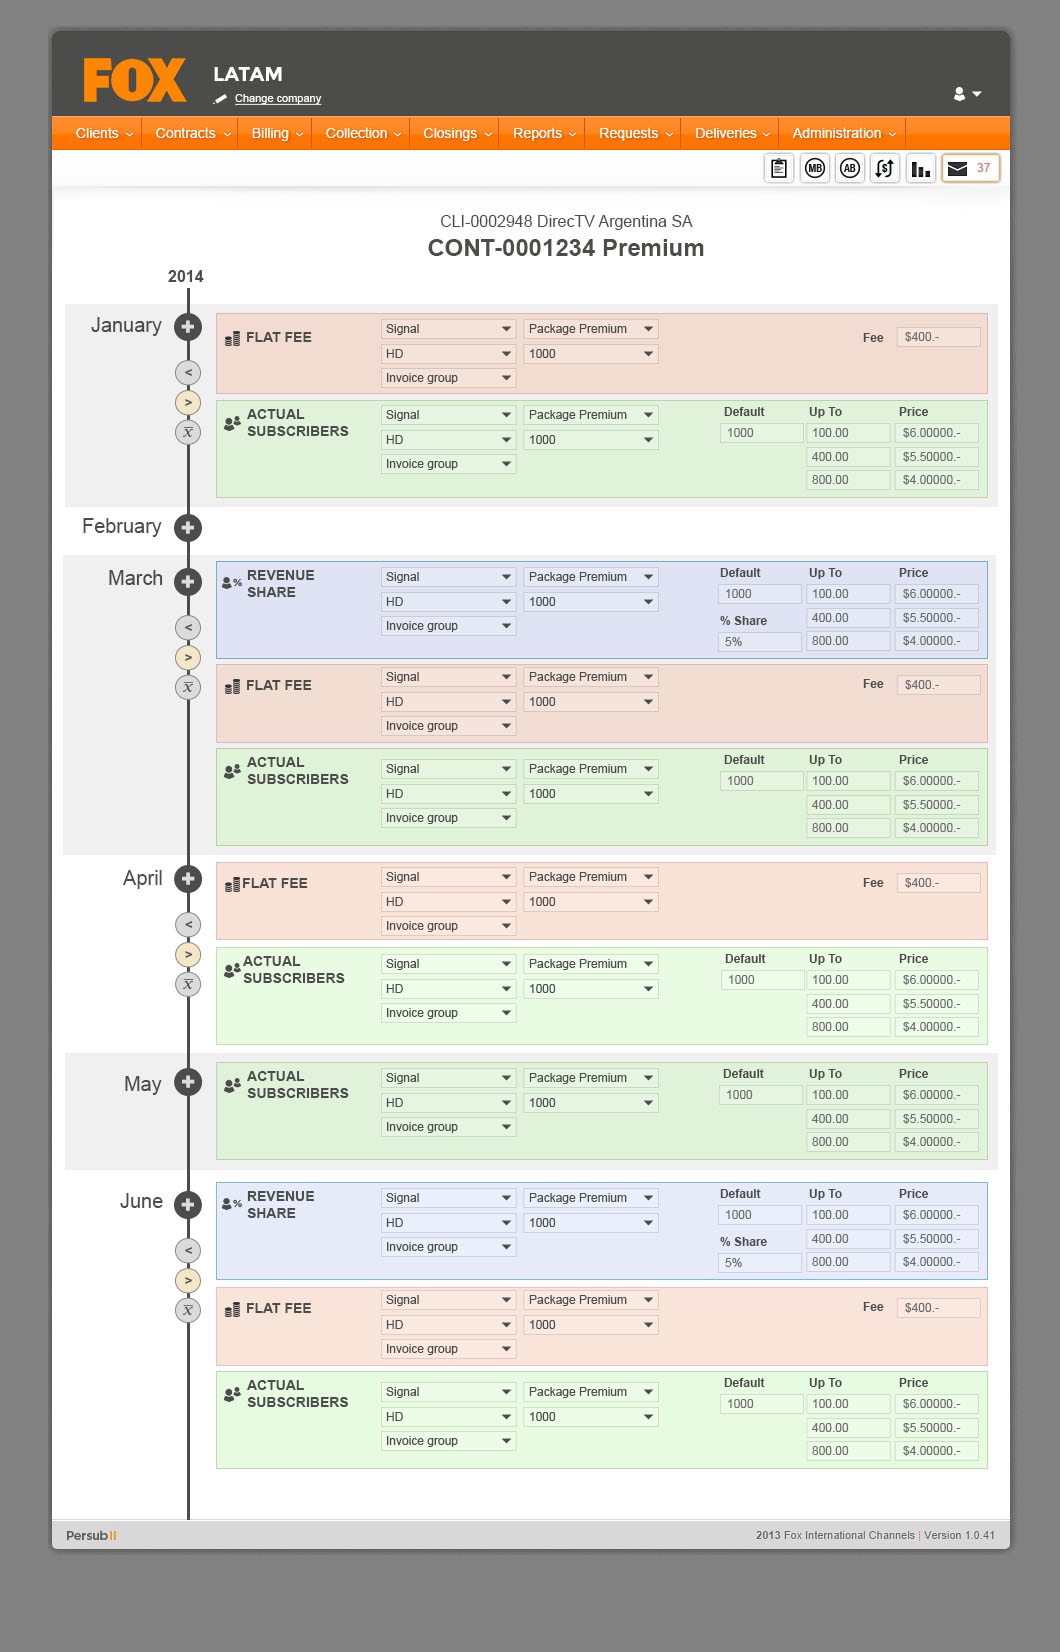
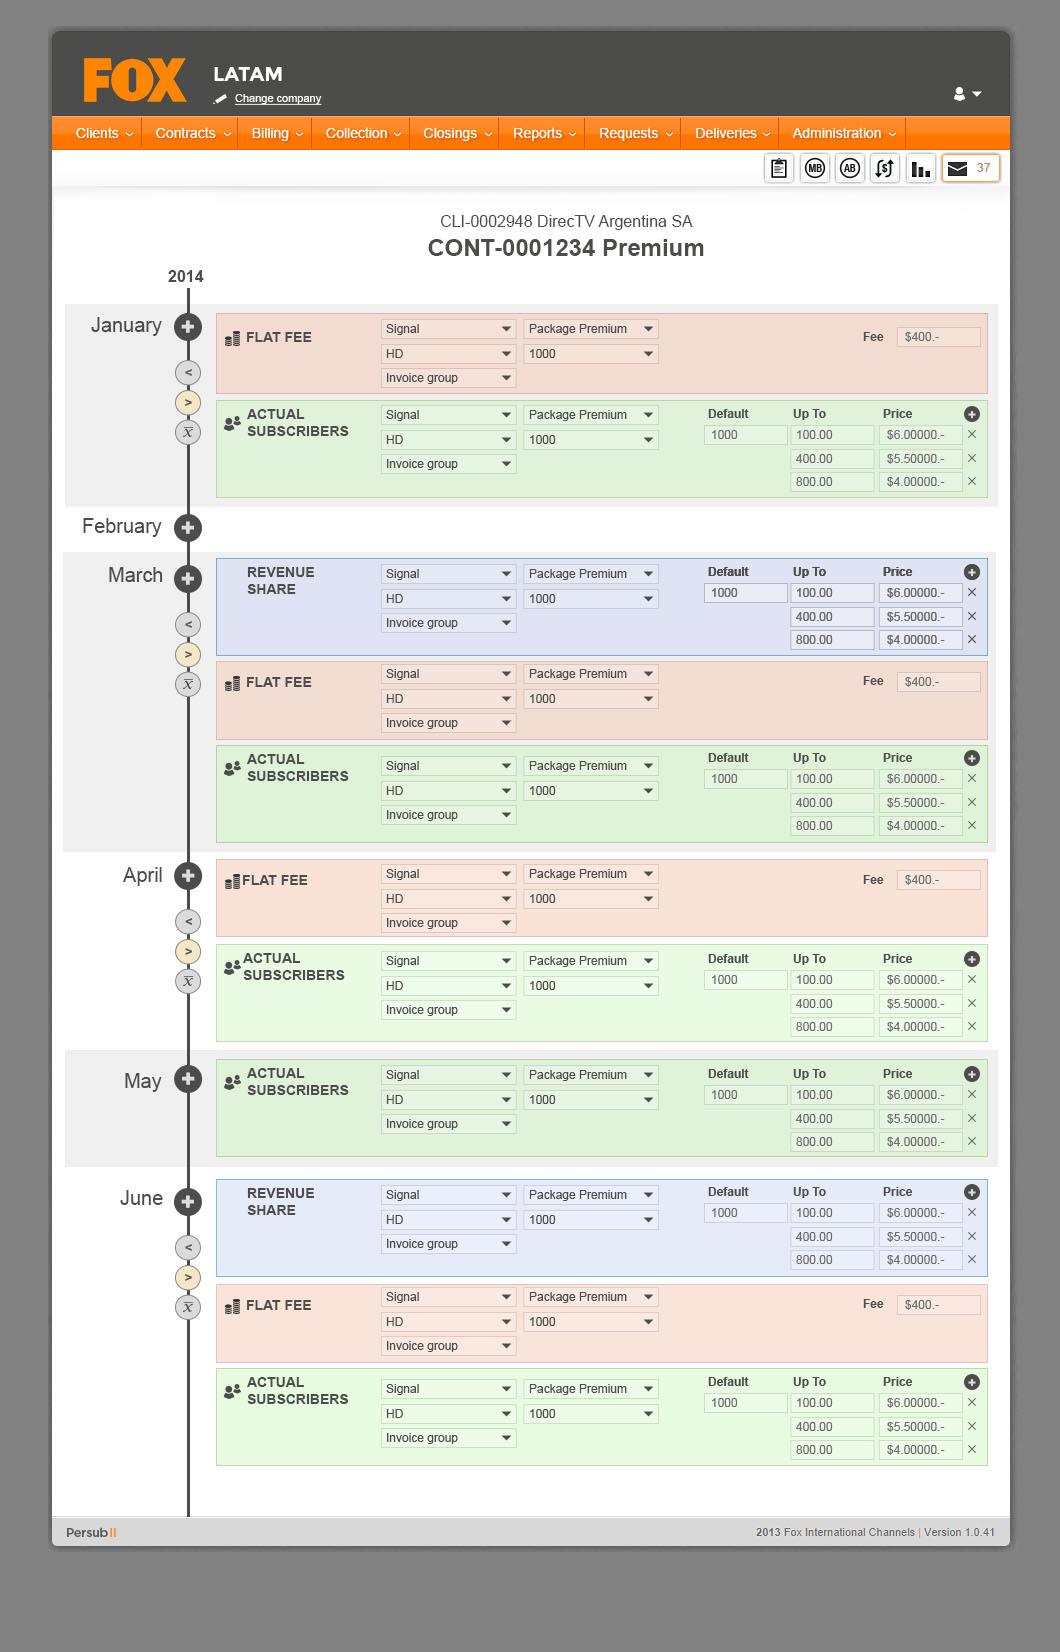
new resources

diff --git a/index.html b/index.html
@@ -35,7 +35,7 @@
             <div class="col-md-2">
               <h4 data-bind="text: billingMethod().name"></h4>
             </div>
-            <div class="col-md-4">
+            <div class="col-md-5">
               <div class="row">
                 <div class="col-md-6">
                   <select class="form-control" data-bind="value: serviceType, options: $root.serviceTypes, optionsText: 'name', optionsCaption: 'Select a service type'"></select>
@@ -67,8 +67,16 @@
                   </div>
                 </div>
               </div>
+              <div class="row" data-bind="visible: billingMethod().hasDefault">
+                <div class="col-md-12">
+                  <b>% Share</b>
+                  <div>
+                    <input type="number" class="col-md-12" data-bind="value: defaultSubscribers" />
+                  </div>
+                </div>
+              </div>
             </div>
-            <div class="col-md-4" data-bind="template: template"></div>
+            <div class="col-md-3" data-bind="template: template"></div>
           </div>
           <div class="row">
             <button class="btn btn-danger pull-right">Remove</button>
@@ -79,7 +87,7 @@
   </div>
   <script type="text/html" id="flat-fee">
     <div class="row">
-      <div class="col-md-offset-8 col-md-4">
+      <div class="col-md-offset-6 col-md-6">
         <b>Fee</b>
         <div class="price">
           <input type="number" class="col-md-12" data-bind="value: price" />
@@ -89,51 +97,42 @@
   </script>
   <script type="text/html" id="revenue-share">
     <div class="row">
-      <div class="col-md-4">
-        <b>From</b>
+      <div class="col-md-5">
+        <b>Up to</b>
       </div>
-      <div class="col-md-4">
-        <b>To</b>
-      </div>
-      <div class="col-md-4">
-        <b>% Share</b>
-      </div>
-    </div>
-    <!-- ko foreach: ranges -->
-    <div class="row">
-      <div class="col-md-4">
-        <input type="number" class="col-md-12" data-bind="value: from, valueUpdate: 'afterkeydown'" />
-      </div>
-      <div class="col-md-4">
-        <input type="number" class="col-md-12" data-bind="value: to, valueUpdate: 'afterkeydown'" />
-      </div>
-      <div class="col-md-4">
-        <input type="number" class="col-md-12" data-bind="value: percentage, valueUpdate: 'afterkeydown'" />
-      </div>
-    </div>
-    <!-- /ko -->
-  </script>
-  <script type="text/html" id="actual-subscribers">
-    <div class="row">
-      <div class="col-md-4">
-        <b>From</b>
-      </div>
-      <div class="col-md-4">
-        <b>To</b>
-      </div>
-      <div class="col-md-4">
+      <div class="col-md-6">
         <b>Price</b>
       </div>
     </div>
     <!-- ko foreach: ranges -->
     <div class="row">
-      <div class="col-md-4">
-        <input type="number" class="col-md-12" data-bind="value: from, valueUpdate: 'afterkeydown'" />
-      </div>
-      <div class="col-md-4">
+      <div class="col-md-5">
         <input type="number" class="col-md-12" data-bind="value: to, valueUpdate: 'afterkeydown'" />
       </div>
-      <div class="col-md-4 price">
+      <div class="col-md-6 price">
+        <input type="number" class="col-md-12" data-bind="value: price, valueUpdate: 'afterkeydown'" />
+      </div>
+      <button class="btn btn-default col-md-1" style="padding: 0">
+        x
+      </button>
+    </div>
+    <!-- /ko -->
+  </script>
+  <script type="text/html" id="actual-subscribers">
+    <div class="row">
+      <div class="col-md-6">
+        <b>Up to</b>
+      </div>
+      <div class="col-md-6">
+        <b>Price</b>
+      </div>
+    </div>
+    <!-- ko foreach: ranges -->
+    <div class="row">
+      <div class="col-md-6">
+        <input type="number" class="col-md-12" data-bind="value: to, valueUpdate: 'afterkeydown'" />
+      </div>
+      <div class="col-md-6 price">
         <input type="number" class="col-md-12" data-bind="value: price, valueUpdate: 'afterkeydown'" />
       </div>
     </div>
